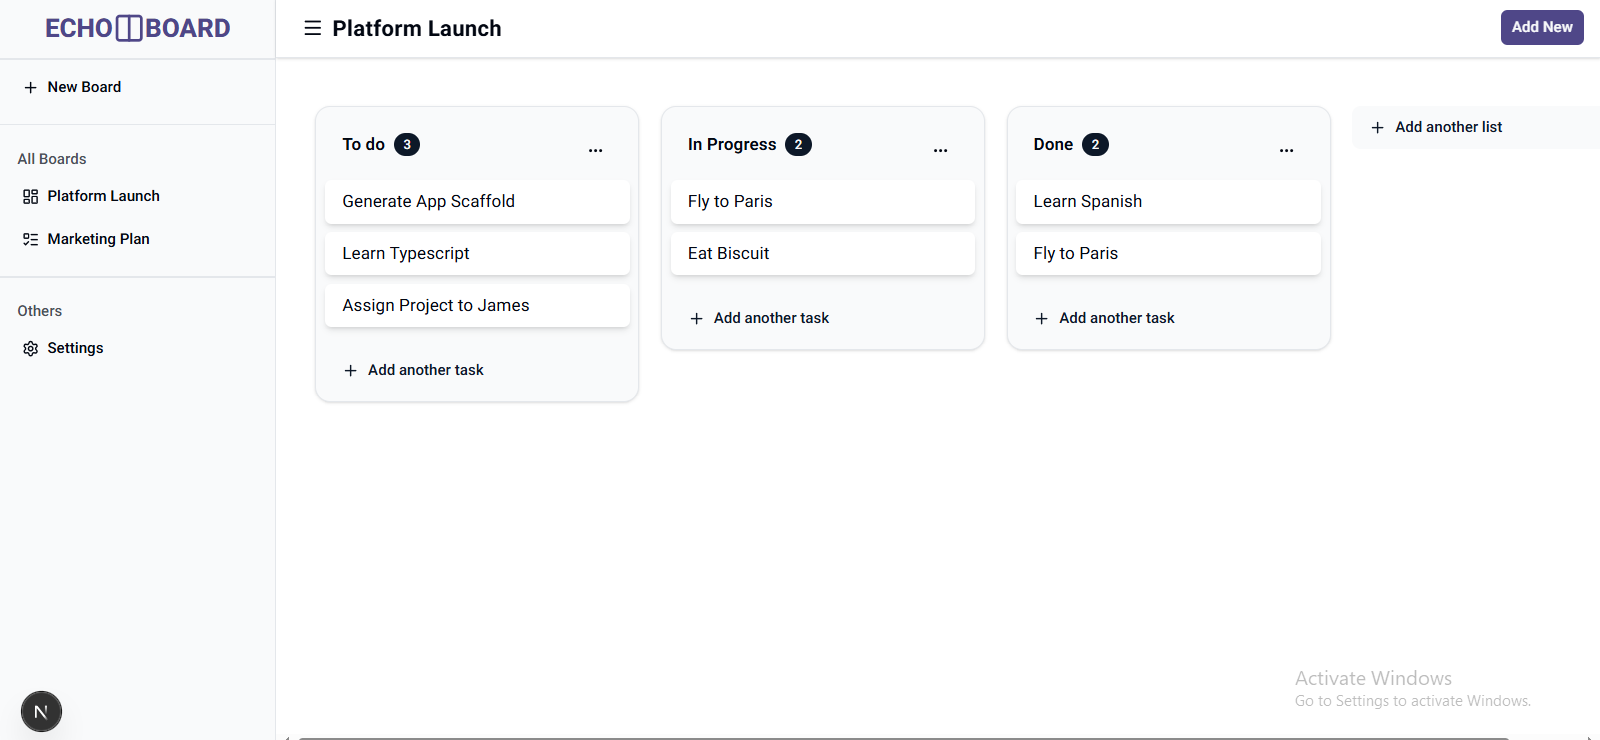
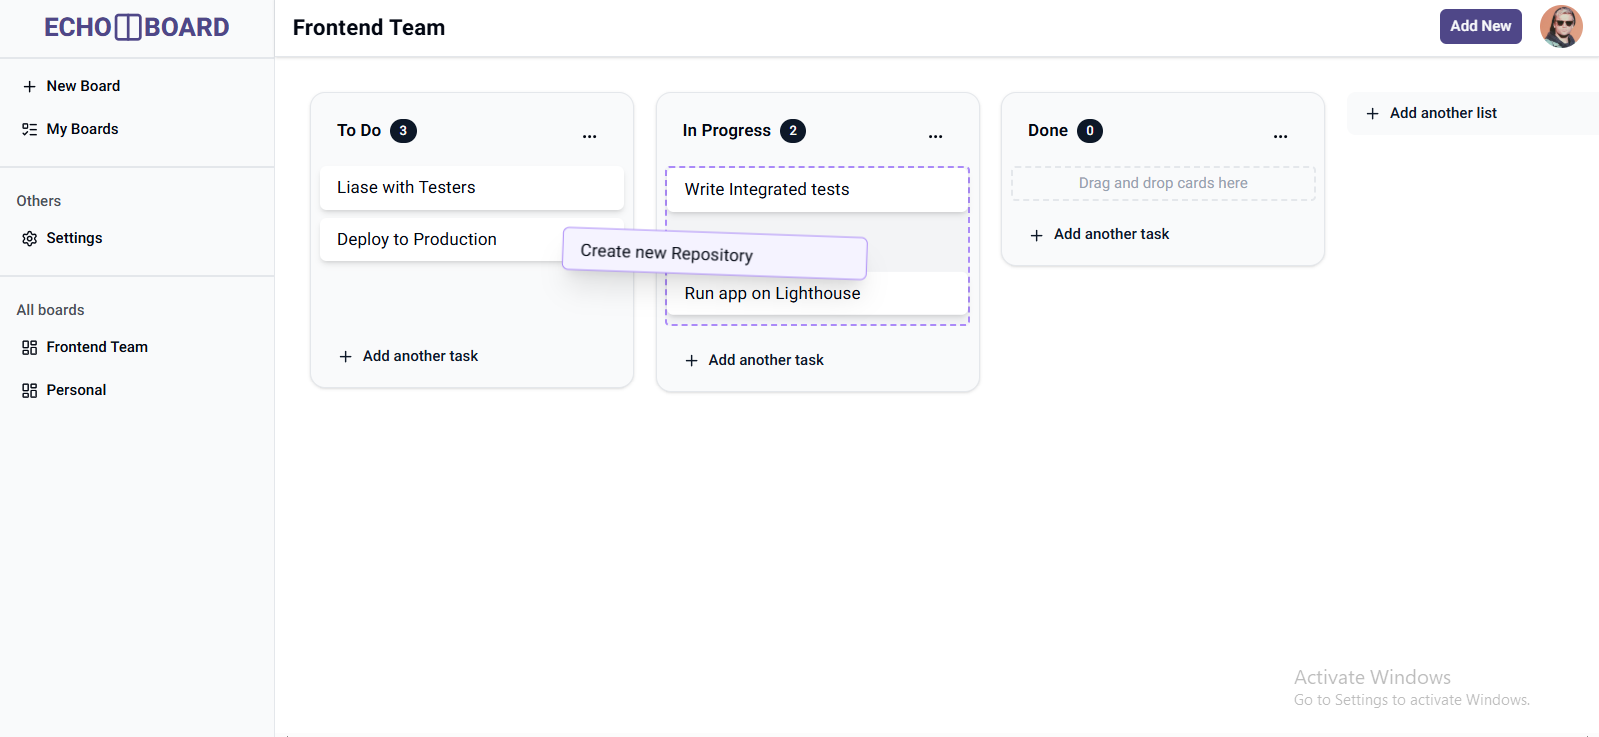
replace lorem ipsum text on hero section

diff --git a/src/store/initialBoardData.ts b/src/store/initialBoardData.ts
@@ -5,31 +5,31 @@ export const initialBoards = {
     columns: [
       {
         id: "c1",
-        title: "In Progress",
+        title: "To Do",
         tasks: [
-          { id: "c1t0", title: "Fly to Paris" },
-          { id: "c1t1", title: "Eat Biscuit" },
+          { id: "c1t0", title: "Liase with Testers" },
+          { id: "c1t1", title: "Deploy to Production" },
         ],
       },
       {
         id: "c2",
-        title: "Done",
+        title: "In Progress",
         tasks: [
-          { id: "c2t0", title: "Learn Spanish" },
-          { id: "c2t1", title: "Fly to Paris" },
+          { id: "c2t0", title: "Write Integrated tests" },
+          { id: "c2t1", title: "Run app on Lighthouse" },
         ],
       },
     ],
   },
   "board-2": {
     id: "board-2",
-    title: "Design Squad",
+    title: "Personal",
     columns: [
       {
         id: "c15",
         title: "Backlog",
         tasks: [
-          { id: "c15t15", title: "Liase with Testers" },
+          { id: "c15t15", title: "Travel to Paris" },
           { id: "c15t16", title: "Delete Database" },
         ],
       },
@@ -37,16 +37,16 @@ export const initialBoards = {
         id: "c17",
         title: "Assigned",
         tasks: [
-          { id: "c17t16", title: "Running back to Man United" },
-          { id: "c17t18", title: "Sack Vicki from Teamlead" },
+          { id: "c17t16", title: "Start a blog" },
+          { id: "c17t18", title: "Take course on Motion Design" },
         ],
       },
       {
         id: "c18",
         title: "Delivered",
         tasks: [
-          { id: "c18t16", title: "Man City is Moving" },
-          { id: "c18t18", title: "Sack Saka from Vice city" },
+          { id: "c18t16", title: "Build New Portfolio" },
+          { id: "c18t18", title: "Purchase new Bicycle" },
         ],
       },
     ],

diff --git a/src/app/(home)/_components/HeroSection.tsx b/src/app/(home)/_components/HeroSection.tsx
@@ -20,15 +20,19 @@ const HeroSection = () => {
       </div>
       <div className='mx-auto max-w-7xl px-6 pt-10 pb-24 sm:pb-32 lg:flex lg:px-8 lg:py-44'>
         <div className='mx-auto max-w-2xl shrink-0 lg:mx-0 lg:pt-8'>
-          <Badge variant="outline" className='mt-10 sm:mt-24 lg:mt-16 dark:bg-brand-200 text-brand-500 border-brand-500' asChild>
-            <a href='#'>No 1 Task Management App</a>
+          <Badge
+            variant='outline'
+            className='mt-10 sm:mt-24 lg:mt-16 dark:bg-brand-200 text-brand-500 border-brand-500'
+            asChild
+          >
+            <a href='#'>Streamline your workflow with ease</a>
           </Badge>
           <h1 className='mt-10 text-5xl font-semibold -tracking-wide text-pretty text-brand-900 dark:text-white sm:text-7xl'>
-            Deploy to the cloud with confidence
+            All you need for seamless project management
           </h1>
           <p className='mt-8 text-lg font-medium text-pretty text-gray-600 dark:text-gray-200 sm:text-xl'>
-            Anim aute id magna aliqua ad ad non deserunt sunt. Qui irure qui
-            lorem cupidatat commodo. Elit sunt amet fugiat veniam occaecat.
+            Empower your team with an intuitive project mangement tool that
+            keeps your work organized and your goals in sight
           </p>
           <div className='mt-10 flex items-center gap-6'>
             <Button variant='primary' asChild>

diff --git a/src/app/(home)/_components/Navbar.tsx b/src/app/(home)/_components/Navbar.tsx
@@ -56,7 +56,7 @@ const Navbar = () => {
               href='/signup'
               className='text-sm/6 font-semibold'
             >
-              Get Echobard for Free
+              Try Echobard for Free
             </Link>
           </Button>
         </div>
